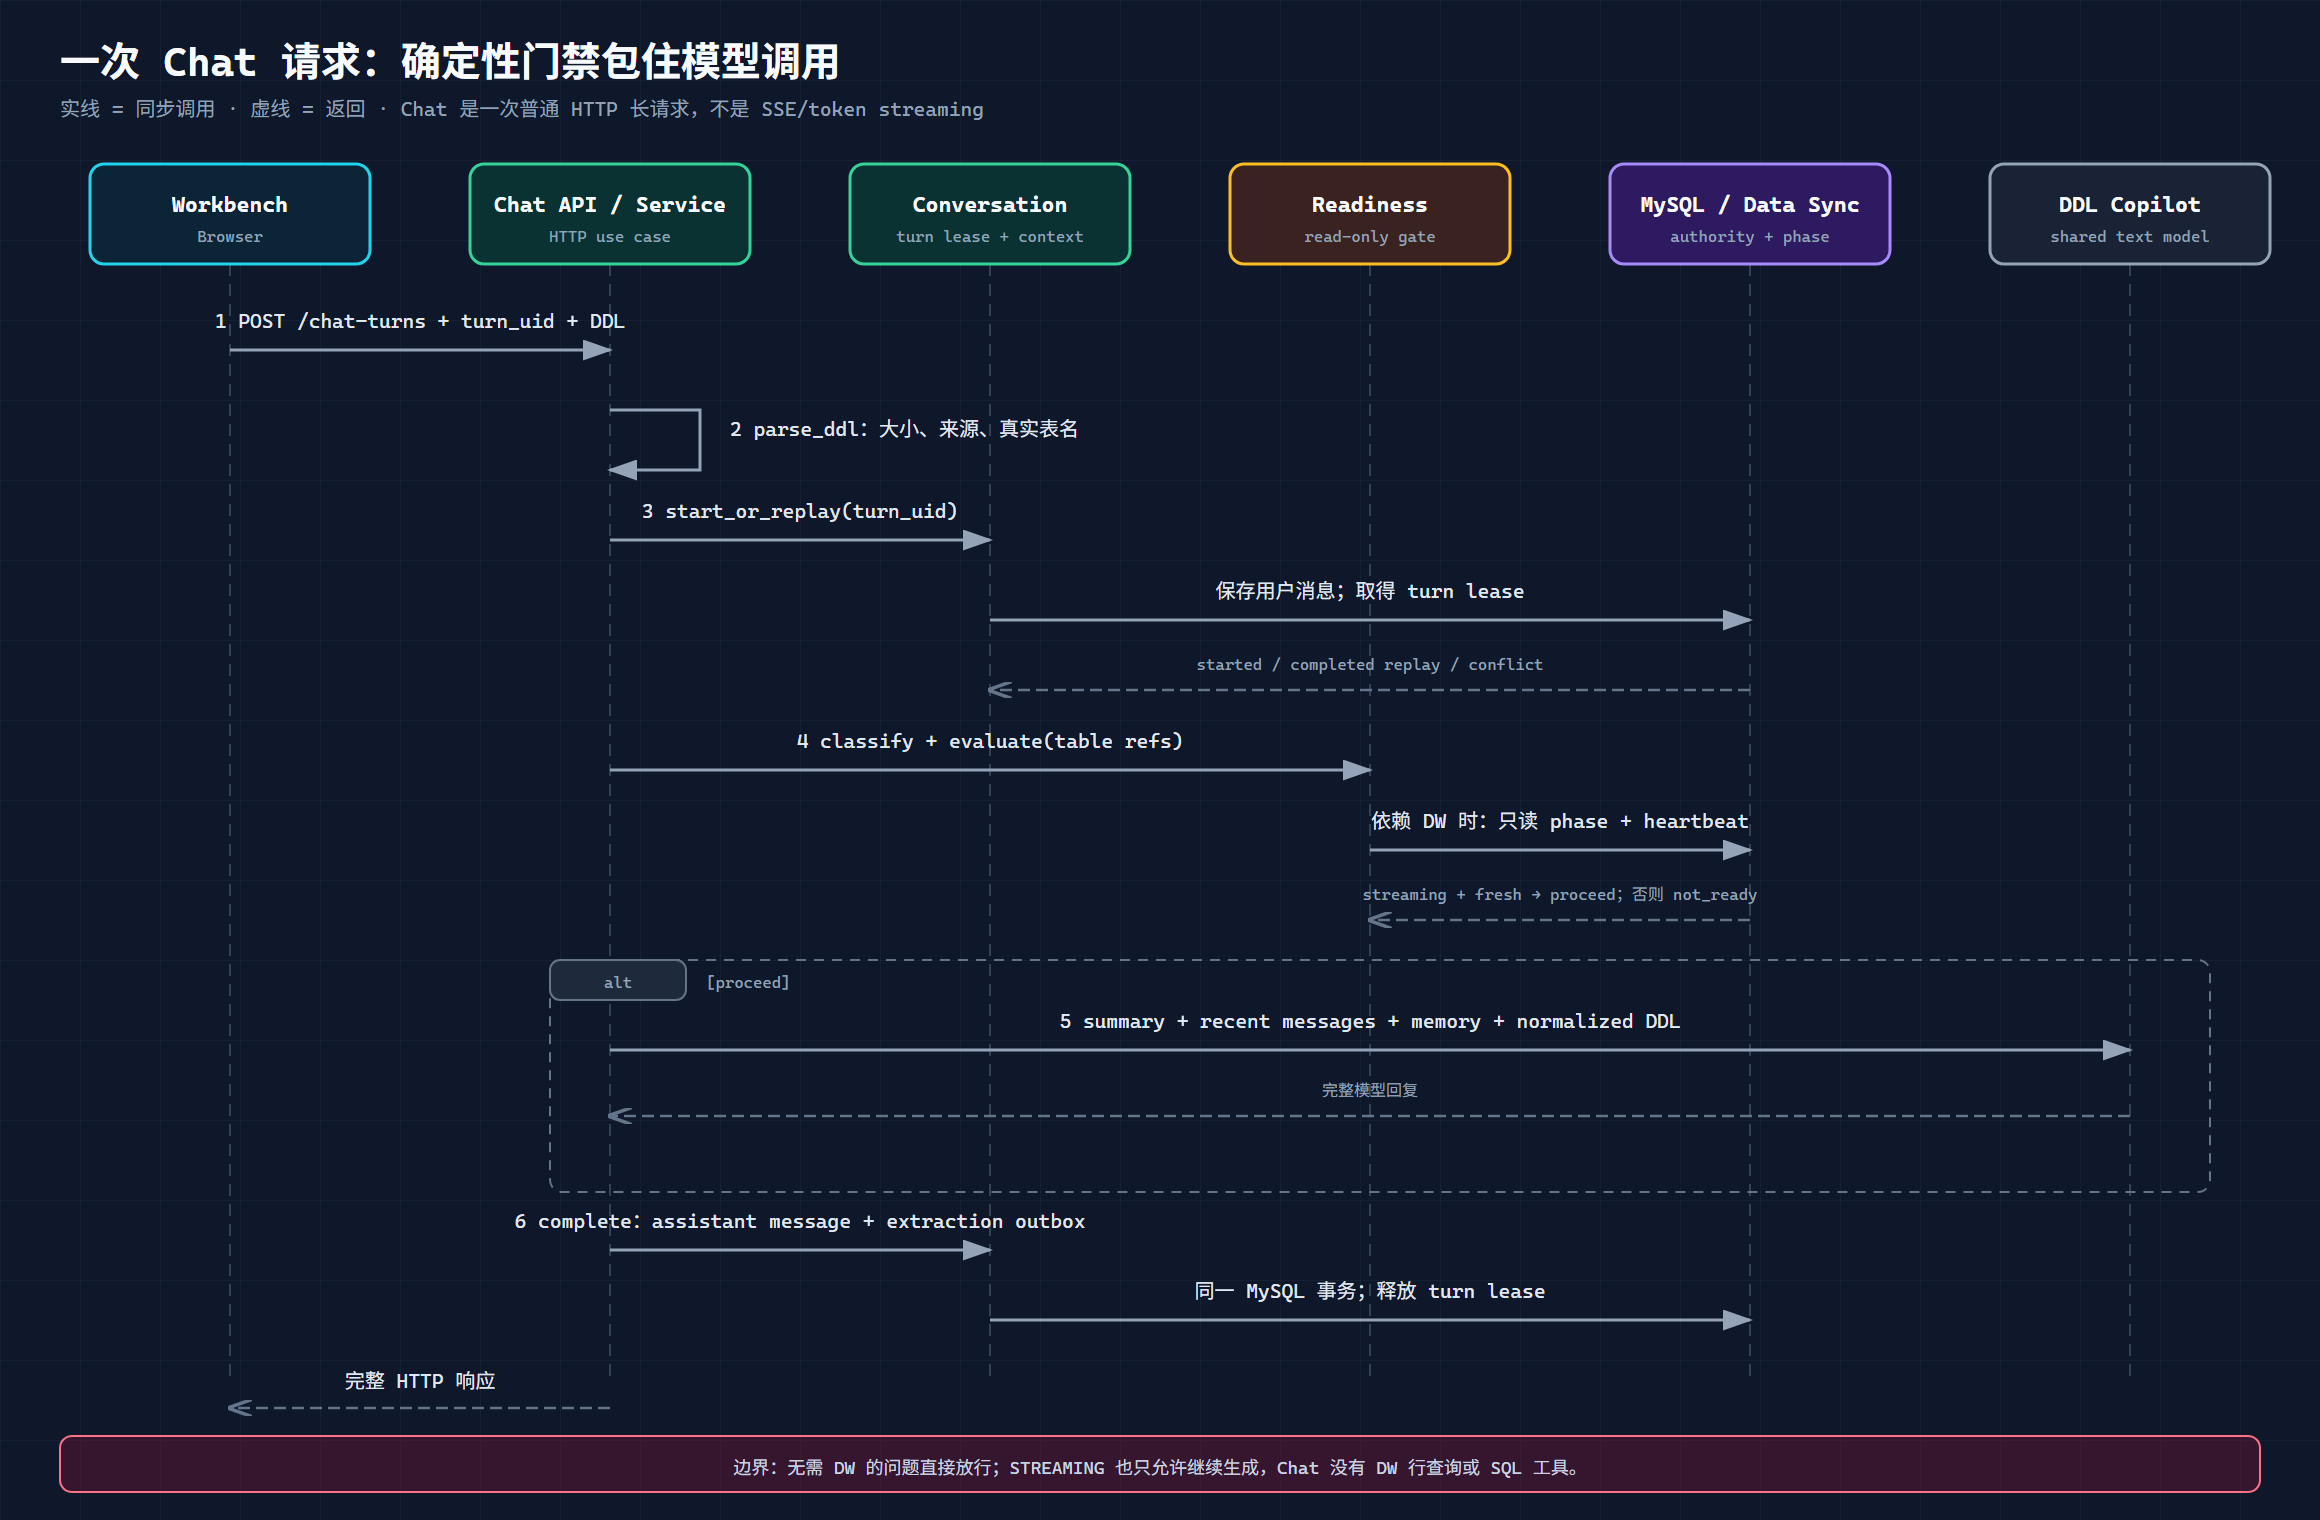
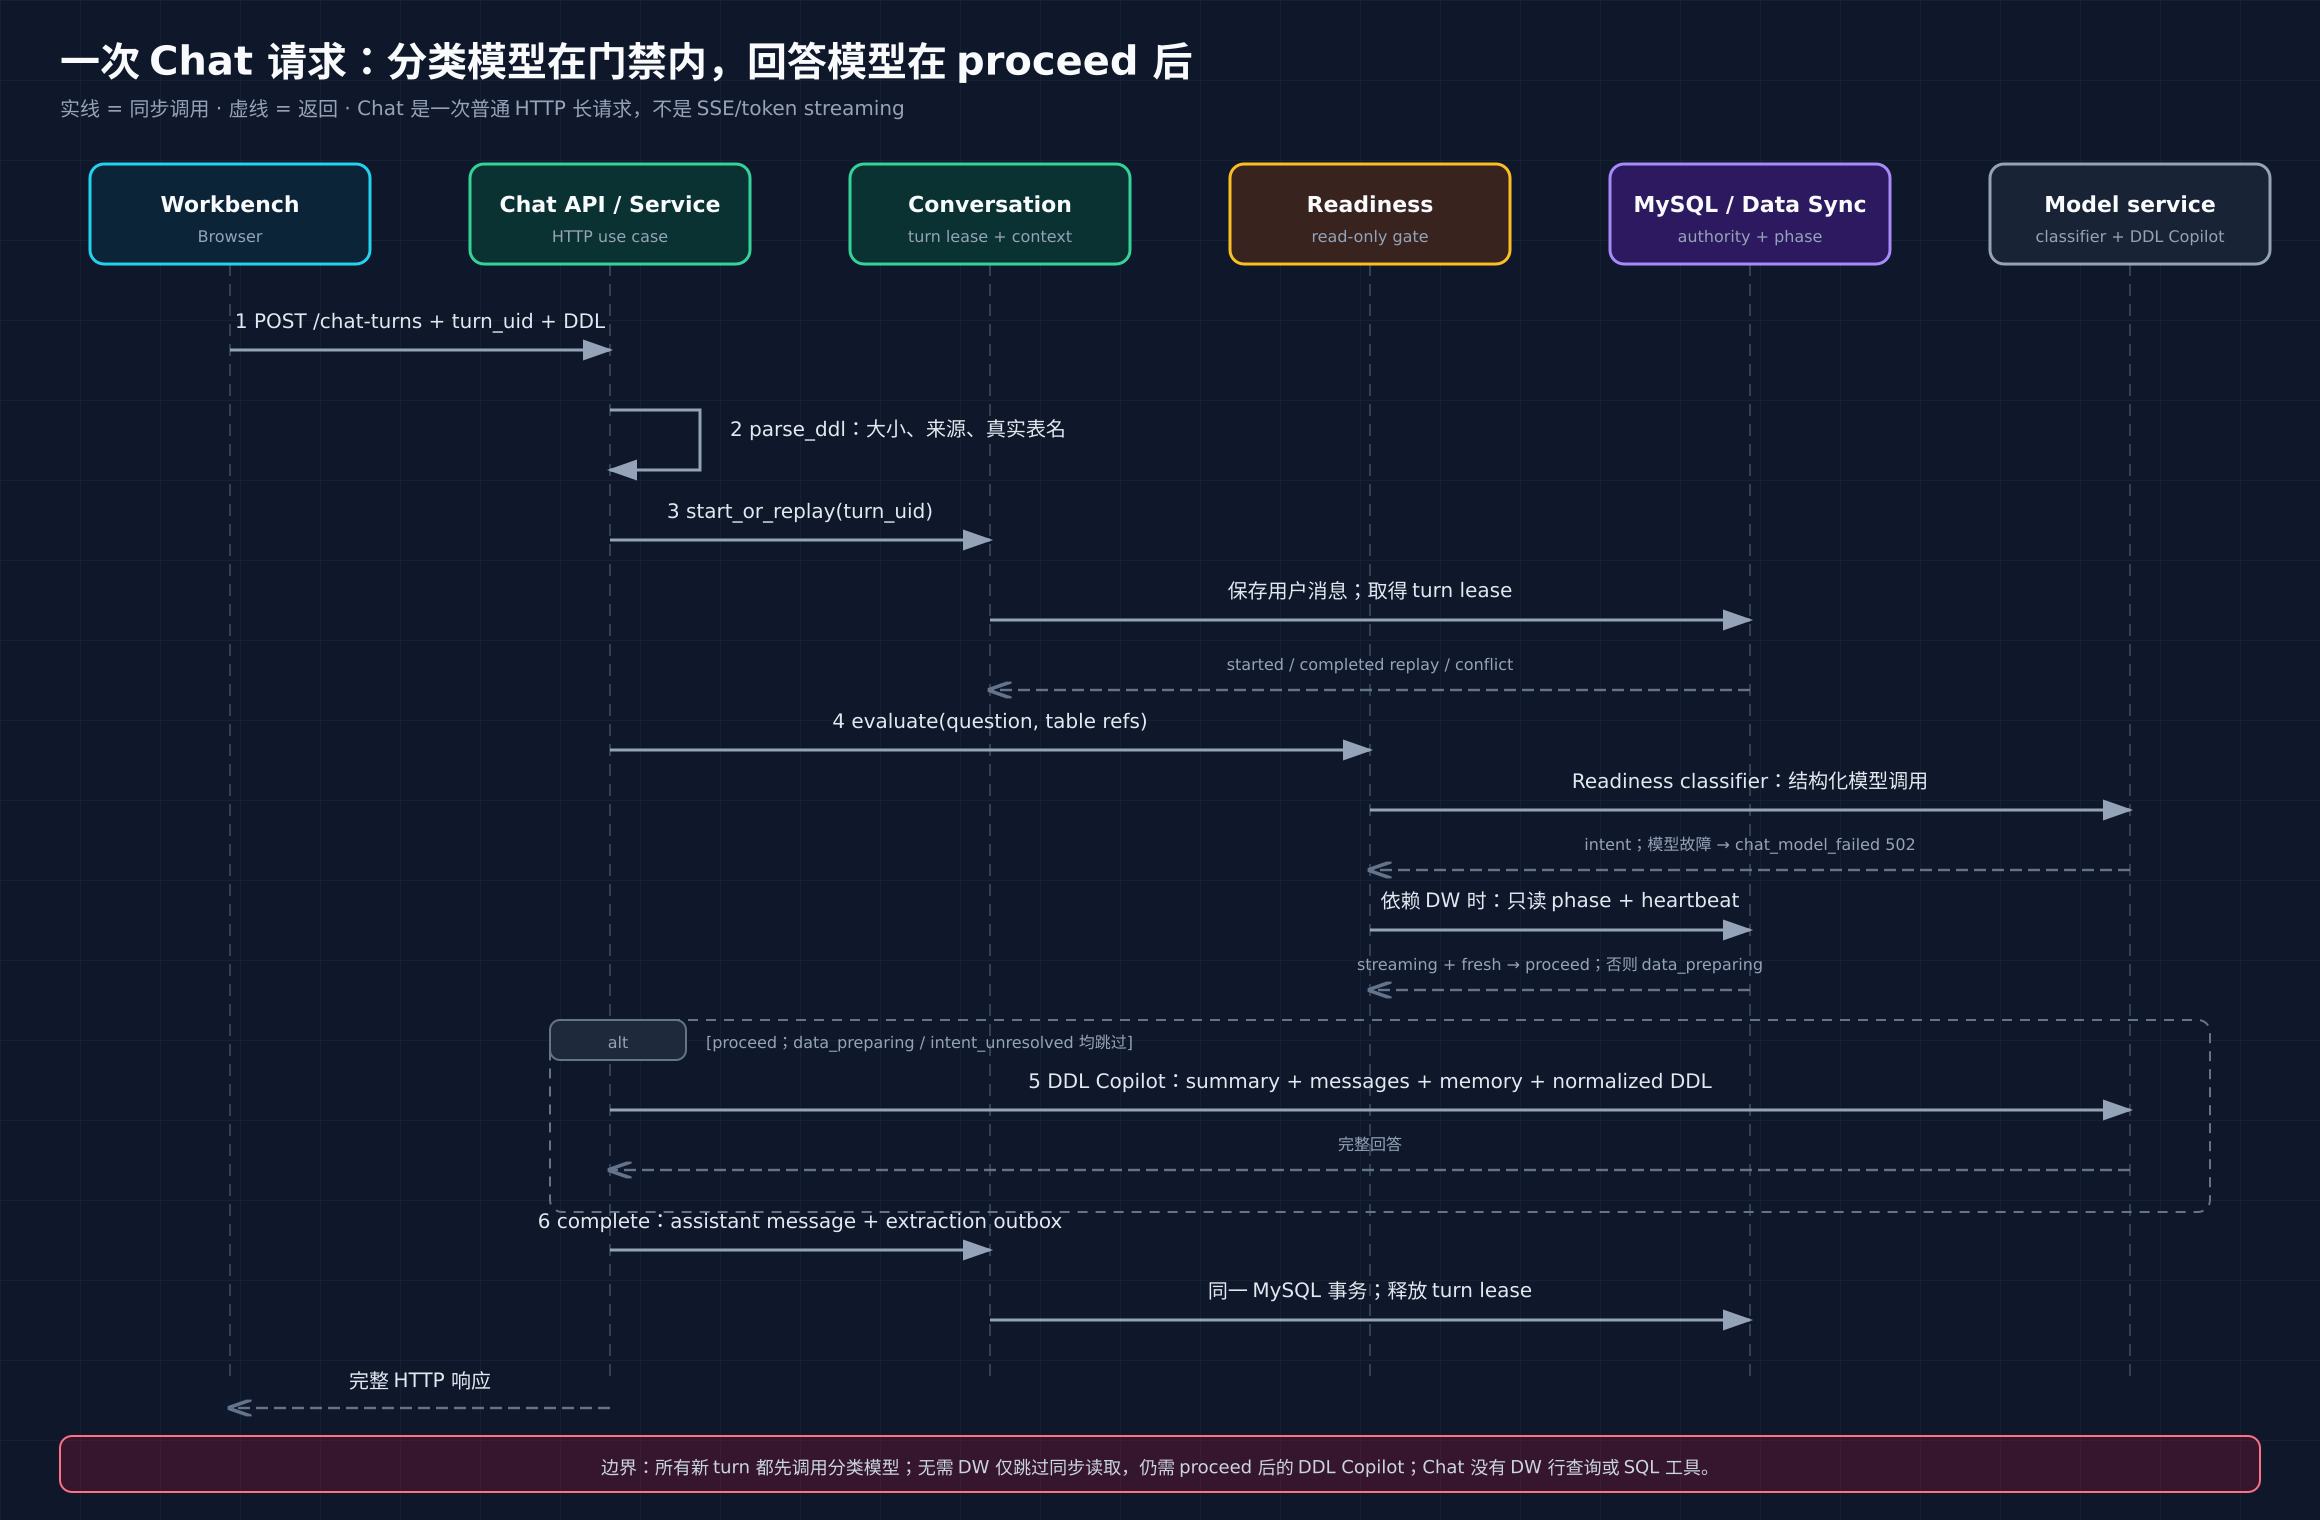
docs: 修正 Agent 知识页边界语义

diff --git a/docs/agent-knowledge.html b/docs/agent-knowledge.html
@@ -213,23 +213,23 @@
 
       <section id="chat">
         <h2>03 · Agent 主流程</h2>
-        <p class="section-intro">Chat 要解决“同一个问题重试时不重复写消息、并且只在依赖数据达到允许状态时调用模型”。确定性 DDL 解析、turn lease 与 readiness 都位于模型之前；模型不能绕过这些门禁。</p>
+        <p class="section-intro">Chat 要解决“同一个问题重试时不重复写消息、并且只在依赖数据达到允许状态时生成回答”。确定性 DDL 解析与 turn lease 位于模型之前；Readiness 会先调用分类模型判断数据依赖，只有门禁返回 <code>proceed</code> 才继续调用 DDL Copilot 生成回答。</p>
         <div class="explain-grid">
           <article class="explain"><h3>要解决的问题</h3><p>长 HTTP 请求可能被客户端重试。没有 <code>turn_uid</code> 幂等与 turn lease（一次会话只允许一个活动轮次的租约），同一句话会重复落库，两个回复还可能交错覆盖摘要。</p></article>
           <article class="explain example"><h3>具体例子</h3><div class="example-steps"><div><b>输入</b><code>turn_uid=t-42</code>，“status 字段是什么意思？”</div><div><b>状态</b>第一次请求已完成，但客户端没收到响应。</div><div><b>步骤</b>重试先解析相同 DDL，再由 Conversation 找到已完成轮次。</div><div><b>结果</b>直接回放原响应，不新增用户/助手消息，也不重复调用模型。</div></div></article>
         </div>
         <div class="diagram-shell" data-diagram-src="diagram/agent-knowledge/chat-turn-sequence.svg" data-diagram-title="一次 Chat 请求的完整时序" data-diagram-alt="一次 Chat 请求从 Workbench 到 Conversation、Readiness、模型及 MySQL 的放大时序图">
           <div class="diagram-toolbar"><button class="zoom-button" type="button" aria-label="放大查看 Chat 请求时序图" title="放大查看" aria-haspopup="dialog" aria-controls="diagram-dialog"><svg aria-hidden="true" viewBox="0 0 24 24" fill="none" stroke="currentColor" stroke-width="2" stroke-linecap="round" stroke-linejoin="round"><path d="M8 3H3v5"/><path d="M16 3h5v5"/><path d="M8 21H3v-5"/><path d="M16 21h5v-5"/></svg></button></div>
-          <figure class="diagram"><img src="diagram/agent-knowledge/chat-turn-sequence.svg" width="1160" height="760" loading="lazy" decoding="async" alt="一次 Chat 请求：普通 HTTP 请求经过确定性 DDL 解析、Conversation turn lease、Readiness 门禁和模型调用后原子完成。"></figure>
+          <figure class="diagram"><img src="diagram/agent-knowledge/chat-turn-sequence.svg" width="1160" height="760" loading="lazy" decoding="async" alt="一次 Chat 请求：先由 Readiness classifier 调用模型分类，再按 Data Sync 门禁结果决定是否调用 DDL Copilot 生成回答；分类模型故障返回 502，data_preparing 或 intent_unresolved 不生成回答。"></figure>
         </div>
-        <p class="caption">文字版结论：先确定性校验和幂等建轮次，再检查就绪状态；只有 <code>proceed</code> 才调用模型，最后在同一事务中保存回复与抽取 outbox。</p>
+        <p class="caption">文字版结论：先确定性校验和幂等建轮次；Readiness classifier 随后调用模型分类，分类模型故障会投影为 <code>chat_model_failed</code> 502。分类成功后，<code>data_preparing</code> 与 <code>intent_unresolved</code> 都跳过回答生成，只有 <code>proceed</code> 才调用 DDL Copilot；最后在同一事务中保存回复与抽取 outbox。</p>
         <div class="card">
           <div class="path"><code>frontend/src/api/dataAgent.ts</code> → <code>backend/src/chat/api.py</code> → <code>backend/src/chat/service.py</code></div>
           <div class="flow" aria-label="聊天请求六步流程">
             <div class="step"><b>1 · Chat HTTP</b><span>Workbench 发起一次普通长 HTTP 请求。</span></div>
             <div class="step"><b>2 · Parse DDL</b><span><code>parse_ddl</code> 确定性校验大小、来源与真实表名。</span></div>
             <div class="step"><b>3 · Start / Replay</b><span>Conversation turn lease 保存用户消息；已完成轮次直接幂等回放。</span></div>
-            <div class="step"><b>4 · Readiness</b><span>分类问题依赖，只读检查 Data Sync phase 与 heartbeat。</span></div>
+            <div class="step"><b>4 · Readiness</b><span>先调用分类模型识别问题依赖；需要 DW 时再只读检查 Data Sync phase 与 heartbeat。</span></div>
             <div class="step"><b>5 · DDL Copilot</b><span>仅在 <code>proceed</code> 时将摘要、近期消息、长期记忆和规范 DDL 交给模型。</span></div>
             <div class="step"><b>6 · Complete</b><span>原子写入助手消息与 extraction outbox，并释放 turn 门禁。</span></div>
           </div>
@@ -250,7 +250,7 @@
         <p class="section-intro">DDL Job 把“可能要调用模型、可能要等人回答”的长流程变成可恢复协议。outbox 是与业务状态一起记录的待投递意图；source lease 是同一数据源的排他租约，避免两个任务同时发布冲突的 schema。</p>
         <div class="explain-grid">
           <article class="explain"><h3>要解决的问题</h3><p>如果 API 先写 Job 再直接发队列，进程恰好在两步之间崩溃，任务会永久停在 <code>pending</code>；如果澄清回答启动一张新图，之前验证状态与问题集合会丢失。</p></article>
-          <article class="explain example"><h3>具体例子</h3><div class="example-steps"><div><b>输入</b><code>status int</code>，没有枚举含义。</div><div><b>状态</b>分类能识别字段，但指标语义验证无法确定。</div><div><b>步骤</b>Graph 生成问题并 <code>interrupt()</code>；Job 进入 <code>waiting_input</code>。用户携 <code>question_set_id</code> 回答后恢复 checkpoint。</div><div><b>结果</b>同一 Job 从原节点继续，不重做受理，也不会把猜测写入 Snapshot。</div></div></article>
+          <article class="explain example"><h3>具体例子</h3><div class="example-steps"><div><b>输入</b>事实表 <code>orders.amount</code> 缺少指标计算口径、过滤条件或时间粒度。</div><div><b>状态</b>事实表已识别，但生成业务指标所需的口径无法确定。</div><div><b>步骤</b>Graph 只为事实表指标缺口生成问题并 <code>interrupt()</code>；Job 进入 <code>waiting_input</code>。用户携 <code>question_set_id</code> 回答后恢复 checkpoint；没有事实表时跳过问答。</div><div><b>结果</b>同一 Job 从原节点继续，不重做受理，也不会把猜测写入 Snapshot。</div></div></article>
         </div>
         <div class="diagram-shell" data-diagram-src="diagram/agent-knowledge/ddl-job-lifecycle.svg" data-diagram-title="DDL Metadata Job 生命周期" data-diagram-alt="DDL Job 从预览、Redis 原子受理、LangGraph 澄清恢复到六态终结的放大流程图">
           <div class="diagram-toolbar"><button class="zoom-button" type="button" aria-label="放大查看 DDL Job 生命周期图" title="放大查看" aria-haspopup="dialog" aria-controls="diagram-dialog"><svg aria-hidden="true" viewBox="0 0 24 24" fill="none" stroke="currentColor" stroke-width="2" stroke-linecap="round" stroke-linejoin="round"><path d="M8 3H3v5"/><path d="M16 3h5v5"/><path d="M8 21H3v-5"/><path d="M16 21h5v-5"/></svg></button></div>
@@ -266,7 +266,7 @@
               <li><code>/api/v1/metadata/ddl-preview</code> 只做确定性预览，不创建 Job。</li>
               <li>提交 Job 时，Redis Lua 原子写入任务、source lease 与 dispatch outbox。</li>
               <li>API 尽力立即入 arq；失败时不撤销已受理任务，worker cron 周期重放 dispatch outbox。</li>
-              <li>SSE 输出稳定业务事件；连接中断时前端回读权威 Job，同时保留原生 <code>EventSource</code> 重连与 <code>Last-Event-ID</code> 语义。</li>
+              <li>SSE 输出稳定业务事件；每次连接都从当前 Redis Stream 尾部取得游标并先返回最新权威 Job 快照。原生 <code>EventSource</code> 可自动重连，但服务端不读取 <code>Last-Event-ID</code>，因此不保证重放断线期间的历史事件。</li>
             </ol>
           </article>
           <article class="card">
@@ -400,7 +400,7 @@
               <tr><td><code>chat/</code>、<code>answer_readiness/</code></td><td>Chat 用例编排与只读就绪 seam；共享模型通过明确 interface 调用</td><td>API process</td></tr>
               <tr><td><code>ddl_metadata/</code></td><td>DDL Metadata module；API adapter、Redis Job 协议、LangGraph workflow、accepted snapshot adapter、Meta Projection；CDC 通过 Meta Values 输入端口参与 DW 物化事务</td><td>API + arq worker + <code>data-agent-cdc</code>（Meta Values 输入）</td></tr>
               <tr><td><code>conversation/</code>、<code>memory/</code></td><td>application 定义用例/ports，adapters 完成 MySQL、模型与索引转换；domain 不依赖外部框架</td><td>API + arq worker</td></tr>
-              <tr><td><code>data_sync/</code></td><td>Data Sync module；desired-state repository、schema/backfill/binlog adapters 与 CDC service</td><td><code>data-agent-cdc</code></td></tr>
+              <tr><td><code>data_sync/</code></td><td>Data Sync module；API 只读 phase/heartbeat 门禁，arq Worker 在 Accepted Snapshot 权威事务中写入 desired state，CDC 推进 schema、backfill 与 binlog 同步阶段</td><td>API + arq worker + <code>data-agent-cdc</code></td></tr>
               <tr><td><code>infrastructure/</code>、<code>models/</code></td><td>前者提供低层资源；后者只保存确实跨 feature 的后端契约，不是全项目 umbrella namespace</td><td>按组合根注入</td></tr>
             </tbody>
           </table>
